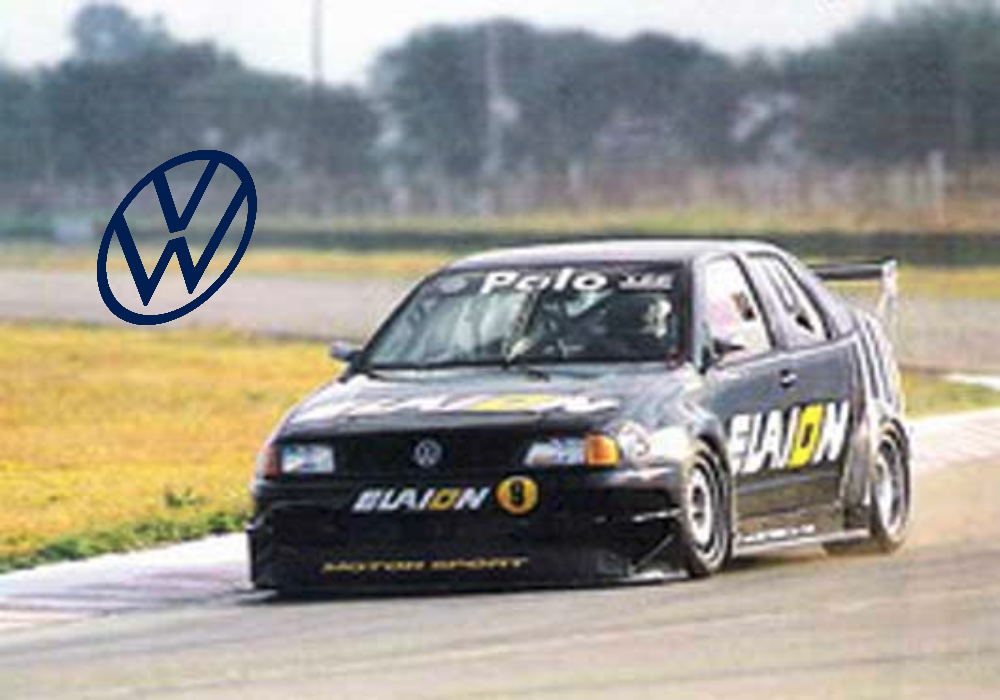
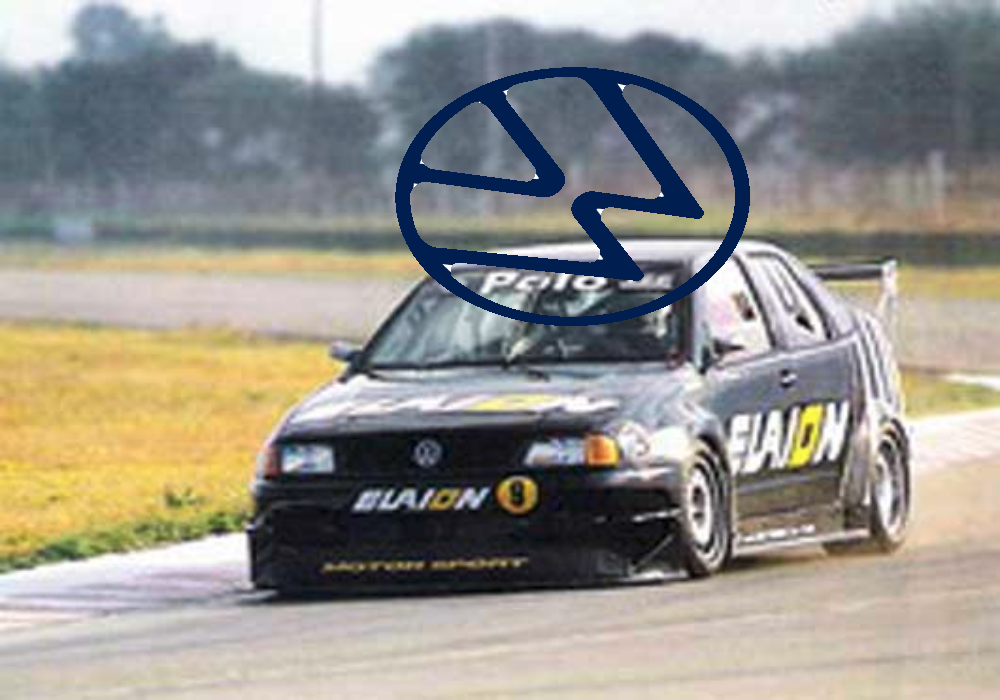
Add files via upload
Correción en TP7

Changed region(s): [[0.372, 0.09, 0.775, 0.48], [0.093, 0.21, 0.279, 0.48]]

diff --git a/Practico 7/Practico7.py b/Practico 7/Practico7.py
@@ -81,12 +81,15 @@ while(run == True):
     if k == ord('a'):
         origin = selection(backup.copy(),3)  #We pass the image and receive the tupple with the point's coordinates.
         final = selection(img1.copy(),3)
+        img = backup.copy()
+        img1 = backup1.copy()
         img = warp(img, origin, final) #Here we send the source and destiny points to warp function.
         img2gray = cv2.cvtColor(img, cv2.COLOR_BGR2GRAY)  #We converte the image to B&W in order to apply a thershold to it.
+        blurred = cv2.blur(img2gray, (20,20))
         #In order to layer up two images we need to treshold the upper layer (already in B&W), which returns 0's and 1's values,
         #being 0 the black pixels and 1 the white ones. Thus when adding both pics together we'll add up all but the black pixels.
-        ret,mask = cv2.threshold(img2gray, 100, 255, cv2.THRESH_BINARY ) #We apply the threshold, where img2gray is our B&W pic, the two following parameters are the colour limits, and the last part is the threshold type.
-        ret,mask_inv = cv2.threshold(img2gray, 100, 255, cv2.THRESH_BINARY_INV ) 
+        ret,mask = cv2.threshold(blurred, 100, 255, cv2.THRESH_BINARY ) #We apply the threshold, where img2gray is our B&W pic, the two following parameters are the colour limits, and the last part is the threshold type.
+        ret,mask_inv = cv2.threshold(blurred, 100, 255, cv2.THRESH_BINARY_INV ) 
         img2 = cv2.bitwise_and(img1, img1, mask=mask)  #We apply an and between two top layers, including the threshold mask.
         img3 = cv2.bitwise_and(img, img, mask=mask_inv)
         img = cv2.add(img2, img3) #Finally we add up both pictures in order to get our final result.

diff --git a/Practico 7/euclidiana.py b/Practico 7/euclidiana.py
@@ -19,5 +19,5 @@ def sc(image, angle, tx, ty, s):
 def warp(image, origin, final):
     (h, w) = image.shape[:2]    #Defines the matrix's size.
     z = cv2.getAffineTransform(origin, final) #This function returns an affine transform calculated from three pairs of coodinates using a 2x3 transformation matrix.
-    warp= cv2.warpAffine(image, z, (w, h), borderValue=(155, 155, 155)) #warpAffine transforms an image using a matrix based on the given parameters (image=source, z=transf. matrix, h/w=size of output pic). In this case we apply a bordervalue due to the fact we are working with an image's outline.
+    warp= cv2.warpAffine(image, z, (w, h), borderValue=(255, 255, 255)) #warpAffine transforms an image using a matrix based on the given parameters (image=source, z=transf. matrix, h/w=size of output pic). In this case we apply a bordervalue due to the fact we are working with an image's outline.
     return warp 
